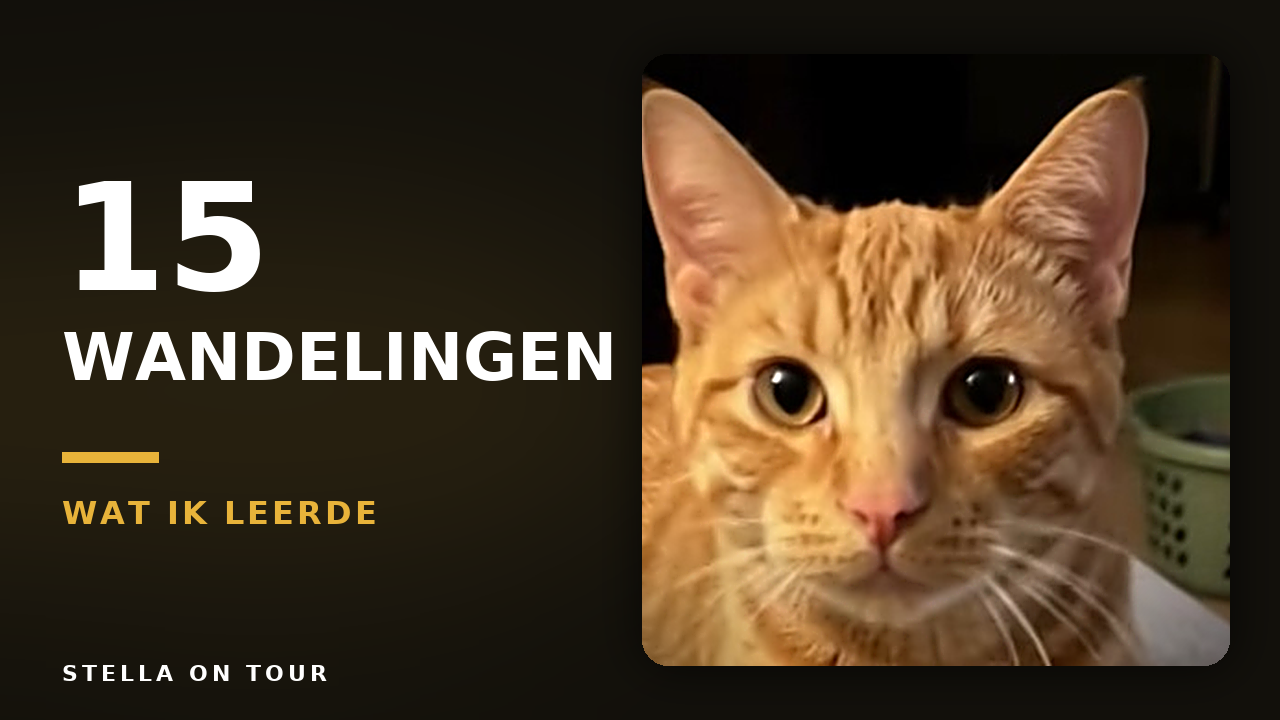
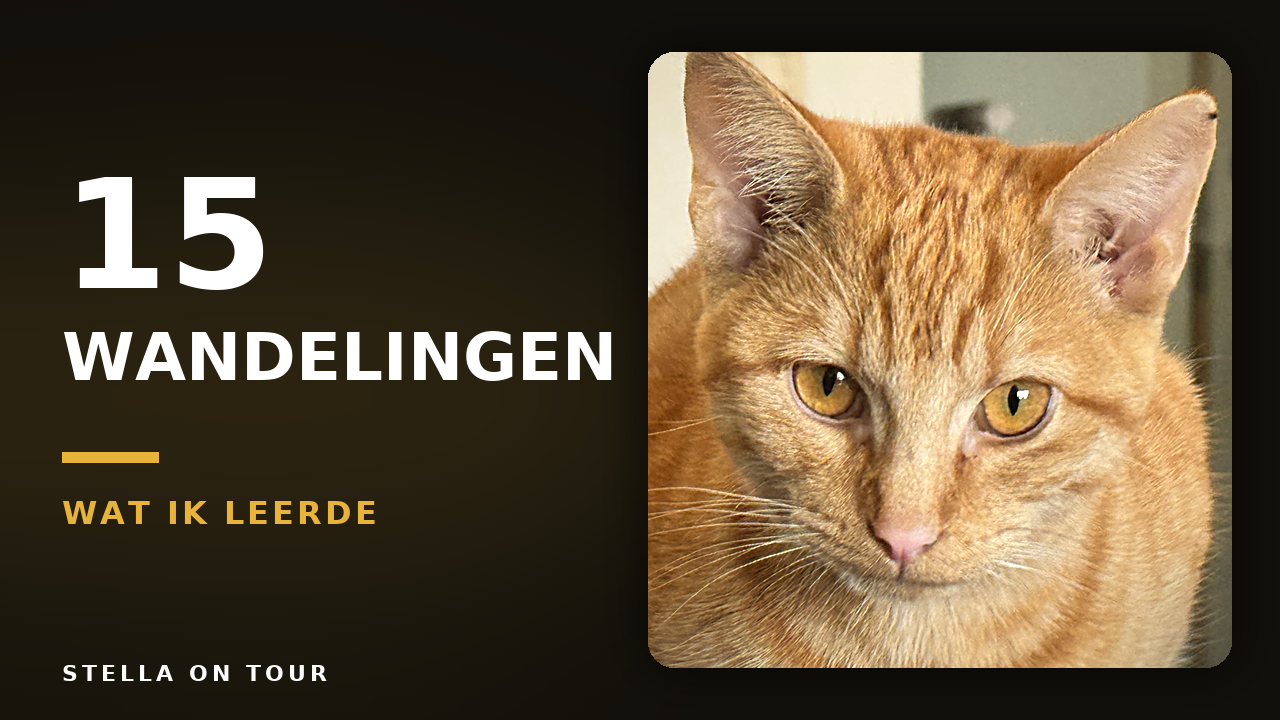
docs(stella): thumbnail-set opnieuw gemaakt met de high-res foto

diff --git a/docs/stella-on-tour/thumbnails/maak_thumbnails.py b/docs/stella-on-tour/thumbnails/maak_thumbnails.py
@@ -1,21 +1,19 @@
 #!/usr/bin/env python3
 # -*- coding: utf-8 -*-
-"""Genereert de drie thumbnail-varianten voor Stella on Tour (1280 × 720).
+"""Genereert de thumbnail-set voor Stella on Tour (1280 × 720).
 
-Let op: dit is een **ontwerphulpje voor de documentatie**, geen deel van de
-Gids-runtime. Het vereist Pillow (dat is de enige uitzondering op de
-"geen dependencies"-regel van het project):
+Ontwerphulpje voor de documentatie, geen deel van de Gids-runtime. Vereist Pillow:
 
     python3 -m venv .venv && .venv/bin/pip install pillow
     .venv/bin/python docs/stella-on-tour/thumbnails/maak_thumbnails.py foto.jpg
 
-Zonder argument wordt `foto.jpg` naast dit script gebruikt.
+De uitsnedes zijn relatief (0–1) zodat ze werken met elke resolutie.
 """
 
 import sys
 from pathlib import Path
 
-from PIL import Image, ImageDraw, ImageFilter, ImageFont
+from PIL import Image, ImageDraw, ImageEnhance, ImageFilter, ImageFont
 
 W, H = 1280, 720
 BG = (18, 16, 11)
@@ -24,34 +22,47 @@ WHITE = (255, 255, 255)
 INK = (23, 19, 10)
 
 BOLD = "/usr/share/fonts/truetype/dejavu/DejaVuSans-Bold.ttf"
-REG = "/usr/share/fonts/truetype/dejavu/DejaVuSans.ttf"
-
 HERE = Path(__file__).resolve().parent
 OUT = HERE / "voorbeelden"
 
+# uitsnede per variant: (x0, y0, x1, y1) als fractie van de bronfoto
+CROP_CARD = (0.255, 0.00, 0.800, 0.735)   # kop + borst, staand kader
+CROP_WIDE = (0.00, 0.005, 1.00, 0.760)   # volledig breed, 16:9
 
-def font(size, bold=True):
-    return ImageFont.truetype(BOLD if bold else REG, size)
+
+def font(size):
+    return ImageFont.truetype(BOLD, size)
+
+
+def grade(im):
+    """Warme, contrastrijke basis — anders ziet een huiskamerfoto er vlak uit."""
+    im = ImageEnhance.Color(im).enhance(1.06)
+    im = ImageEnhance.Contrast(im).enhance(1.07)
+    warm = Image.new("RGBA", im.size, (255, 186, 92, 22))
+    return Image.alpha_composite(im.convert("RGBA"), warm).convert("RGB")
+
+
+def crop_fraction(im, box):
+    w, h = im.size
+    x0, y0, x1, y1 = box
+    return im.crop((round(x0 * w), round(y0 * h), round(x1 * w), round(y1 * h)))
 
 
 def cover(im, w, h):
-    """Snijdt de foto bij naar exact w × h (als een 'object-fit: cover')."""
     im = im.convert("RGB")
     s = max(w / im.width, h / im.height)
-    im = im.resize((round(im.width * s), round(im.height * s)), Image.LANCZOS)
+    im = im.resize((max(w, round(im.width * s)), max(h, round(im.height * s))),
+                   Image.LANCZOS)
     left = (im.width - w) // 2
     top = (im.height - h) // 2
     return im.crop((left, top, left + w, top + h))
 
 
-def face_crop(im):
-    """Snijdt de foto bij op de kop, zodat rommel op de achtergrond verdwijnt."""
-    w, h = im.size
-    box = (round(w * 0.15), round(h * 0.02), round(w * 0.92), h)
-    return im.crop(box)
+def sharp(im):
+    return im.filter(ImageFilter.UnsharpMask(2, 90, 2))
 
 
-def vignette(im, strength=0.75):
+def vignette(im, strength=0.55):
     w, h = im.size
     mask = Image.new("L", (w, h), 255)
     ImageDraw.Draw(mask).ellipse((-w * 0.18, -h * 0.20, w * 1.18, h * 1.08), fill=0)
@@ -70,7 +81,7 @@ def rounded(im, radius):
     return out
 
 
-def fit(draw, text, max_w, start, minimum=28):
+def fit(draw, text, max_w, start, minimum=24):
     size = start
     while size > minimum:
         f = font(size)
@@ -81,96 +92,104 @@ def fit(draw, text, max_w, start, minimum=28):
 
 
 def spaced(draw, xy, text, f, fill, tracking=3):
-    """Tekst met extra letterafstand (Pillow kent geen letter-spacing)."""
     x, y = xy
     for ch in text:
         draw.text((x, y), ch, font=f, fill=fill)
         x += draw.textlength(ch, font=f) + tracking
 
 
-def spaced_width(draw, text, f, tracking=3):
-    return sum(draw.textlength(c, font=f) for c in text) + tracking * (len(text) - 1)
+def brand(draw, x, y, fill=WHITE, opacity=205, tracking=4, size=22):
+    f = font(size)
+    spaced(draw, (x, y), "STELLA ON TOUR", f, fill + (opacity,), tracking=tracking)
 
 
-def photo_card(base, im, box, radius=26, shadow=True):
-    x, y, w, h = box
-    card = cover(face_crop(im), w, h).filter(ImageFilter.UnsharpMask(2, 110, 2))
-    card = vignette(card)
-    card = rounded(card, radius)
-    if shadow:
-        sh = Image.new("RGBA", (w + 80, h + 80), (0, 0, 0, 0))
-        ImageDraw.Draw(sh).rounded_rectangle((40, 40, w + 40, h + 40), radius=radius,
-                                             fill=(0, 0, 0, 170))
-        sh = sh.filter(ImageFilter.GaussianBlur(22))
-        base.alpha_composite(sh, (x - 40, y - 40))
-    base.alpha_composite(card, (x, y))
-
-
-def brand(draw, x, y, fill=WHITE, opacity=200):
-    f = font(22)
-    spaced(draw, (x, y), "STELLA ON TOUR", f, fill + (opacity,), tracking=4)
+def brand_width(draw, size=22, tracking=4):
+    f = font(size)
+    return sum(draw.textlength(c, font=f) for c in "STELLA ON TOUR") + tracking * (len("STELLA ON TOUR") - 1)
 
 
 def background():
     base = Image.new("RGBA", (W, H), BG + (255,))
-    d = ImageDraw.Draw(base)
-    # warme gloed achter het tekstblok
     glow = Image.new("RGBA", (W, H), (0, 0, 0, 0))
-    ImageDraw.Draw(glow).ellipse((-260, 120, 780, 660), fill=(232, 179, 58, 26))
+    ImageDraw.Draw(glow).ellipse((-280, 110, 800, 680), fill=(232, 179, 58, 30))
     base.alpha_composite(glow.filter(ImageFilter.GaussianBlur(120)))
-    return base, d
+    return base
+
+
+def photo_card(base, im, box, radius=26):
+    x, y, w, h = box
+    card = cover(crop_fraction(im, CROP_CARD), w, h)
+    card = rounded(vignette(sharp(card), 0.5), radius)
+    sh = Image.new("RGBA", (w + 90, h + 90), (0, 0, 0, 0))
+    ImageDraw.Draw(sh).rounded_rectangle((45, 45, w + 45, h + 45), radius=radius,
+                                         fill=(0, 0, 0, 175))
+    sh = sh.filter(ImageFilter.GaussianBlur(24))
+    base.alpha_composite(sh, (x - 45, y - 45))
+    base.alpha_composite(card, (x, y))
 
 
 # ---------------------------------------------------------------- variant A
 def variant_a(im):
-    base, d = background()
-    photo_card(base, im, (642, 54, 588, 612), radius=26)
+    base = background()
+    photo_card(base, im, (648, 52, 584, 616))
     d = ImageDraw.Draw(base)
 
-    d.text((62, 150), "15", font=font(150), fill=WHITE)
-    f = fit(d, "WANDELINGEN", 560, 86)
-    d.text((62, 318), "WANDELINGEN", font=f, fill=WHITE)
-
+    d.text((62, 146), "15", font=font(152), fill=WHITE)
+    d.text((62, 318), "WANDELINGEN", font=fit(d, "WANDELINGEN", 560, 86), fill=WHITE)
     d.rectangle((62, 452, 158, 462), fill=ACCENT)
-    f2 = fit(d, "WAT IK LEERDE", 520, 32)
-    spaced(d, (62, 494), "WAT IK LEERDE", f2, ACCENT, tracking=3)
+    spaced(d, (62, 494), "WAT IK LEERDE", fit(d, "WAT IK LEERDE", 520, 32), ACCENT)
     brand(d, 62, 660)
     return base.convert("RGB")
 
 
 # ---------------------------------------------------------------- variant B
 def variant_b(im):
-    base, d = background()
+    base = background()
+    d = ImageDraw.Draw(base)
     d.rectangle((0, 0, 620, H), fill=ACCENT)
 
-    d.text((56, 132), "7", font=font(168), fill=INK)
-    f = fit(d, "DAGEN", 500, 104)
-    d.text((56, 330), "DAGEN", font=f, fill=INK)
-
+    d.text((56, 128), "7", font=font(170), fill=INK)
+    d.text((56, 330), "DAGEN", font=fit(d, "DAGEN", 500, 106), fill=INK)
     d.rectangle((56, 462, 166, 471), fill=INK)
-    f2 = fit(d, "LEIBANDLES, ZONDER STRESS", 496, 30)
-    spaced(d, (56, 502), "LEIBANDLES, ZONDER STRESS", f2, INK, tracking=2)
+    spaced(d, (56, 502), "LEIBANDLES, ZONDER STRESS",
+           fit(d, "LEIBANDLES, ZONDER STRESS", 496, 30), INK, tracking=2)
     brand(d, 56, 660, fill=INK, opacity=190)
 
-    photo_card(base, im, (668, 44, 564, 632), radius=26)
+    photo_card(base, im, (668, 44, 564, 632))
     return base.convert("RGB")
 
 
 # ---------------------------------------------------------------- variant C
 def variant_c(im):
-    base, d = background()
-    photo_card(base, im, (48, 48, 560, 624), radius=26)
+    base = Image.new("RGBA", (W, H), BG + (255,))
+    photo = cover(crop_fraction(im, CROP_WIDE), W, H)
+    photo = sharp(photo).convert("RGBA")
+    base.alpha_composite(photo, (0, 0))
+
+    # donker verloop onderaan, zodat de tekst leesbaar is
+    grad = Image.new("L", (1, H), 0)
+    for y in range(H):
+        t = max(0.0, (y - H * 0.38) / (H * 0.62))
+        grad.putpixel((0, y), int(min(1.0, t ** 1.25) * 225))
+    grad = grad.resize((W, H))
+    shade = Image.new("RGBA", (W, H), (0, 0, 0, 255))
+    shade.putalpha(grad)
+    base.alpha_composite(shade)
+
+    # lichte vignette links, zodat de tekst niet op de kat valt
+    left = Image.new("RGBA", (W, H), (0, 0, 0, 0))
+    ImageDraw.Draw(left).rectangle((0, 0, 620, H), fill=(0, 0, 0, 60))
+    base.alpha_composite(left.filter(ImageFilter.GaussianBlur(90)))
 
     d = ImageDraw.Draw(base)
-    x = 660
-    f = fit(d, "MIJN KAT", 560, 76)
-    d.text((x, 236), "MIJN KAT", font=f, fill=WHITE)
-    f = fit(d, "WANDELT", 560, 118)
-    d.text((x, 330), "WANDELT", font=f, fill=ACCENT)
-    d.rectangle((x, 486, x + 96, 495), fill=WHITE)
-    f2 = fit(d, "ELKE ZONDAG EEN NIEUWE ROUTE", 540, 27)
-    spaced(d, (x, 528), "ELKE ZONDAG EEN NIEUWE ROUTE", f2, (200, 192, 175), tracking=2)
-    brand(d, x, 660)
+    d.text((64, 414), "MIJN KAT", font=fit(d, "MIJN KAT", 520, 72), fill=WHITE)
+    d.text((64, 494), "WANDELT", font=fit(d, "WANDELT", 520, 110), fill=ACCENT)
+    d.rectangle((64, 622, 160, 631), fill=WHITE)
+    f_small = fit(d, "ELKE ZONDAG EEN NIEUWE ROUTE", 520, 26)
+    spaced(d, (64, 656), "ELKE ZONDAG EEN NIEUWE ROUTE", f_small, (214, 206, 190), tracking=2)
+
+    bw = brand_width(d)
+    brand(d, W - 64 - bw, 676, opacity=190)
     return base.convert("RGB")
 
 
@@ -178,7 +197,7 @@ def main():
     src = Path(sys.argv[1]) if len(sys.argv) > 1 else HERE / "foto.jpg"
     if not src.exists():
         raise SystemExit(f"Foto niet gevonden: {src}")
-    im = Image.open(src)
+    im = grade(Image.open(src))
     OUT.mkdir(parents=True, exist_ok=True)
     for name, fn in (("A-15-wandelingen", variant_a),
                      ("B-7-dagen-leibandles", variant_b),

diff --git a/docs/stella-on-tour/thumbnails/README.md b/docs/stella-on-tour/thumbnails/README.md
@@ -1,12 +1,14 @@
 # 🖼 Thumbnails — drie varianten met jouw foto
 
-Gemaakt met de foto die je aanleverde (419 × 339 px). Klaar voor gebruik: **1280 × 720**, PNG.
+Gemaakt met de foto die je aanleverde (4032 × 3024 px — ruim voldoende). Klaar voor gebruik: **1280 × 720**, PNG, onder de 2 MB-limiet van YouTube.
 
 | Bestand | Voor welke video | Tekst |
 |---|---|---|
 | [voorbeelden/thumbnail-A-15-wandelingen.png](voorbeelden/thumbnail-A-15-wandelingen.png) | Long 1 — "15 wandelingen" | 15 / WANDELINGEN / wat ik leerde |
 | [voorbeelden/thumbnail-B-7-dagen-leibandles.png](voorbeelden/thumbnail-B-7-dagen-leibandles.png) | Long 2 — de leibandles | 7 / DAGEN / leibandles, zonder stress |
 | [voorbeelden/thumbnail-C-mijn-kat-wandelt.png](voorbeelden/thumbnail-C-mijn-kat-wandelt.png) | kanaaltrailer / kanaalbreed | MIJN KAT / WANDELT / elke zondag een nieuwe route |
+
+Variant **C** is de volledige-foto-versie (16:9, tekst onderaan over een donker verloop). Varianten **A** en **B** zetten de kop in een kader, omdat dat op klein formaat net iets strakker leest.
 
 ## Waarom deze drie
 
@@ -16,7 +18,7 @@ Gemaakt met de foto die je aanleverde (419 × 339 px). Klaar voor gebruik: **128
 
 ## Twee dingen die je moet weten
 
-**1. De foto is te klein voor full-bleed.** 419 px breed wordt op 1280 px ongeveer 3× opgeschaald. Ik heb hem daarom in een kader geplaatst en licht verscherpt — dat gaat goed, maar het blijft soft. **Lever een origineel van minstens 1920 × 1080 aan** (of een staande foto van ~1500 px hoog); dan wordt het haarscherp en kan de foto het volledige beeld vullen.
+**1. De resolutie is nu in orde.** 4032 × 3024 geeft haarscherpe thumbnails, ook op tv-formaat. Ik heb de foto licht gecorrigeerd (kleur, contrast, verscherping) en de uitsnede op de kop gelegd, zodat de deurklink en de muur rechts wegvallen.
 
 **2. Deze foto is binnen genomen.** Voor een kanaal over *wandelen* werkt een foto met harnas, buiten, in daglicht vele malen beter — ook omdat kijkers op de thumbnail al zien dat het geen gewone kattenvideo is. De beste thumbnailfoto's:
 
